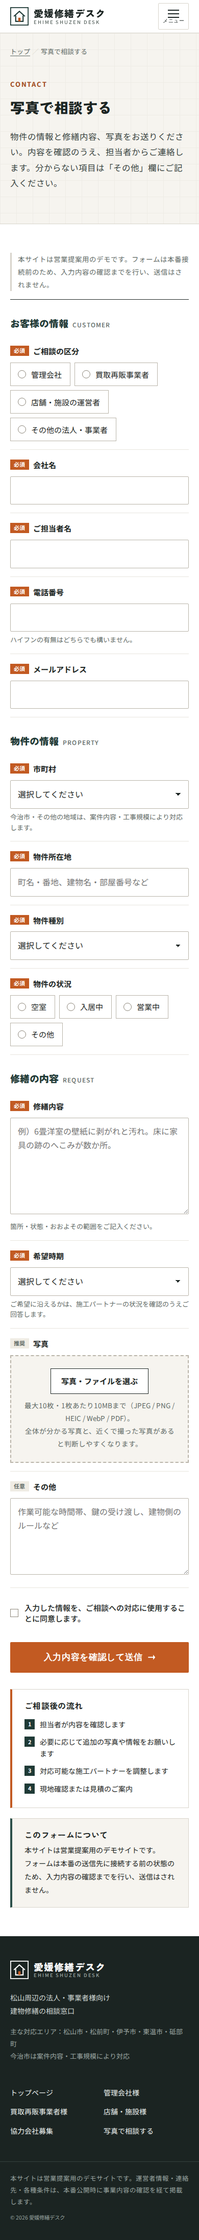
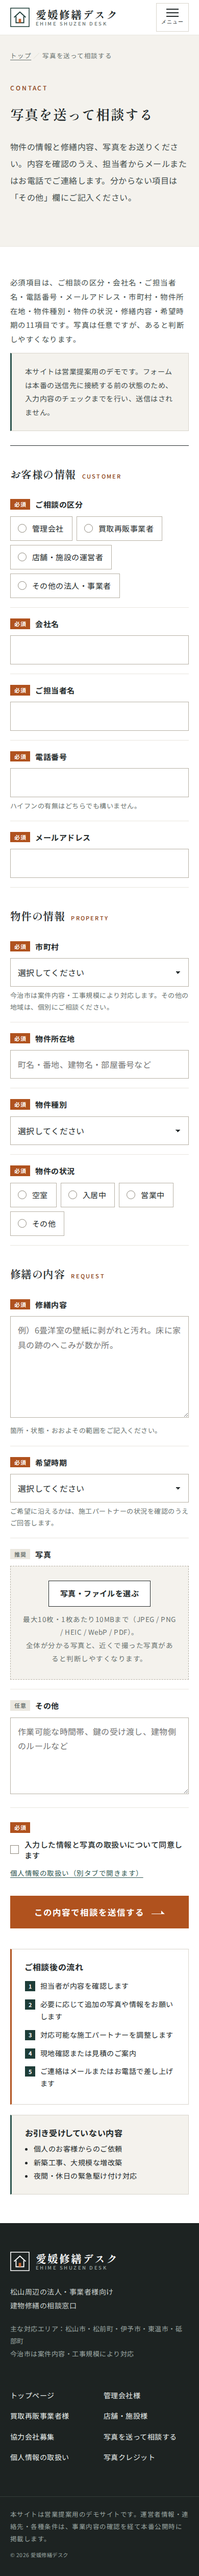
v2 design: reference-grade photo-led layout, audit round-1 fixes
- Full-bleed photo hero with Mincho headings, segment links under hero
- Photo/panel overlap, service rows, photo tiles, numbered flow rows
- Unified CTA label, partner mobile CTA, error summary with links
- Privacy and photo credit pages, consent required, noindex for demo
- Out-of-scope lists, softened promise-like wording, FAQ additions

Claude-Session: https://claude.ai/code/session_0117X5fDaTw2nefB4ZxQFtAT

diff --git a/src/assets/style.css b/src/assets/style.css
@@ -333,12 +333,12 @@ ul, ol { margin: 0; padding: 0; }
 
 /* ---------- sub page hero ---------- */
 .phero { background: var(--paper); border-bottom: 1px solid var(--line-2); }
-.phero__inner { display: grid; grid-template-columns: minmax(0, 5fr) minmax(0, 6fr); gap: 48px 72px; align-items: center; padding-top: 40px; padding-bottom: 96px; }
+.phero__inner { display: grid; grid-template-columns: minmax(0, 6fr) minmax(0, 6fr); gap: 48px 72px; align-items: center; padding-top: 40px; padding-bottom: 96px; }
 .crumbs { font-size: 12.5px; color: var(--muted); padding-top: 28px; letter-spacing: .06em; }
 .crumbs ol { list-style: none; display: flex; flex-wrap: wrap; gap: 4px; }
 .crumbs li + li::before { content: "／"; margin-right: 4px; color: var(--line); }
 .crumbs a { color: var(--muted); }
-.phero h1 { font-family: var(--serif); font-size: clamp(30px, 3.6vw, 48px); line-height: 1.55; }
+.phero h1 { font-family: var(--serif); font-size: clamp(27px, 2.9vw, 42px); line-height: 1.62; }
 .phero__lead { margin-top: 26px; color: var(--ink-2); font-size: 16px; line-height: 2.05; }
 .phero .btn-row { margin-top: 36px; }
 .phero__photo { aspect-ratio: 4 / 3; }
@@ -531,3 +531,6 @@ ul, ol { margin: 0; padding: 0; }
 .consent .req { margin-top: 0; }
 .form-intro .notice { margin-top: 14px; font-size: 14px; }
 .form-intro p { margin-bottom: 0; }
+.sec-head--split { grid-template-columns: minmax(0, 6fr) minmax(0, 5fr); }
+.overlap__photo .photo__cap { right: auto; left: 12px; }
+.overlap--rev .overlap__photo .photo__cap { left: auto; right: 12px; }

diff --git a/src/pages/index.html b/src/pages/index.html
@@ -1,7 +1,7 @@
 <section class="hero" aria-labelledby="hero-title">
   {{photo:hero|日差しの入る、何も置かれていない明るい室内|hero__bg|-|eager}}
   <div class="container hero__inner">
-    <p class="hero__eyebrow">松山周辺の法人・事業者様向け　建物修繕の相談窓口</p>
+    <p class="hero__eyebrow">松山周辺の法人・事業者様向け<span class="br-pc">　</span><br class="br-sp">建物修繕の相談窓口</p>
     <h1 class="hero__title" id="hero-title">いつもの施工会社を<br>変える必要は<br class="br-sp">ありません。</h1>
     <p class="hero__lead">手が回らない時、頼みたい工種の手配先がない時の「もう一つの相談先」として。愛媛修繕デスクは、写真と物件情報から建物修繕のご相談を受け付け、案件ごとに対応できる施工パートナーを手配します。</p>
     <div class="btn-row hero__actions">

diff --git a/src/pages/partner.html b/src/pages/partner.html
@@ -5,7 +5,7 @@
   <div class="container phero__inner">
     <div>
       <span class="eyebrow">FOR PARTNERS</span>
-      <h1 id="page-title">松山周辺で、修繕の<br>施工パートナーを募集しています。</h1>
+      <h1 id="page-title">松山周辺で、修繕の<br>施工パートナーを<br>募集しています。</h1>
       <p class="phero__lead">管理会社様・買取再販事業者様・店舗や施設の運営者様から受け付けた修繕のご相談について、工種と地域に合う施工パートナーへ、案件ごとにご依頼します。</p>
       <div class="btn-row">
         <a class="btn btn--primary" href="#entry">協力会社として登録を相談する</a>

diff --git a/src/pages/shop.html b/src/pages/shop.html
@@ -5,7 +5,7 @@
   <div class="container phero__inner">
     <div>
       <span class="eyebrow">FOR SHOPS &amp; FACILITIES</span>
-      <h1 id="page-title">営業を続けながらの補修も、<br>作業時間からご相談を。</h1>
+      <h1 id="page-title">営業を続けながらの<br>補修も、作業時間から<br>ご相談ください。</h1>
       <p class="phero__lead">店舗・事務所・施設の床や壁の傷み、建具の不具合、退店時の原状回復。営業への影響を確認しながら、作業できる日時を含めてご相談いただけます。</p>
       <div class="btn-row">
         <a class="btn btn--primary" href="{{base}}contact/?type=shop">{{cta_label}}</a>

diff --git a/src/pages/kaitori.html b/src/pages/kaitori.html
@@ -5,7 +5,7 @@
   <div class="container phero__inner">
     <div>
       <span class="eyebrow">FOR RESALE</span>
-      <h1 id="page-title">手を入れる範囲を、<br>見積を比べて決められます。</h1>
+      <h1 id="page-title">手を入れる範囲を、<br>見積を比べて<br>決められます。</h1>
       <p class="phero__lead">仕入れ後の内装補修や、販売前の手直し。どこまで手を入れるかを確認しながら、工事範囲ごとに内訳の分かる見積をご案内します。</p>
       <div class="btn-row">
         <a class="btn btn--primary" href="{{base}}contact/?type=kaitori">{{cta_label}}</a>
